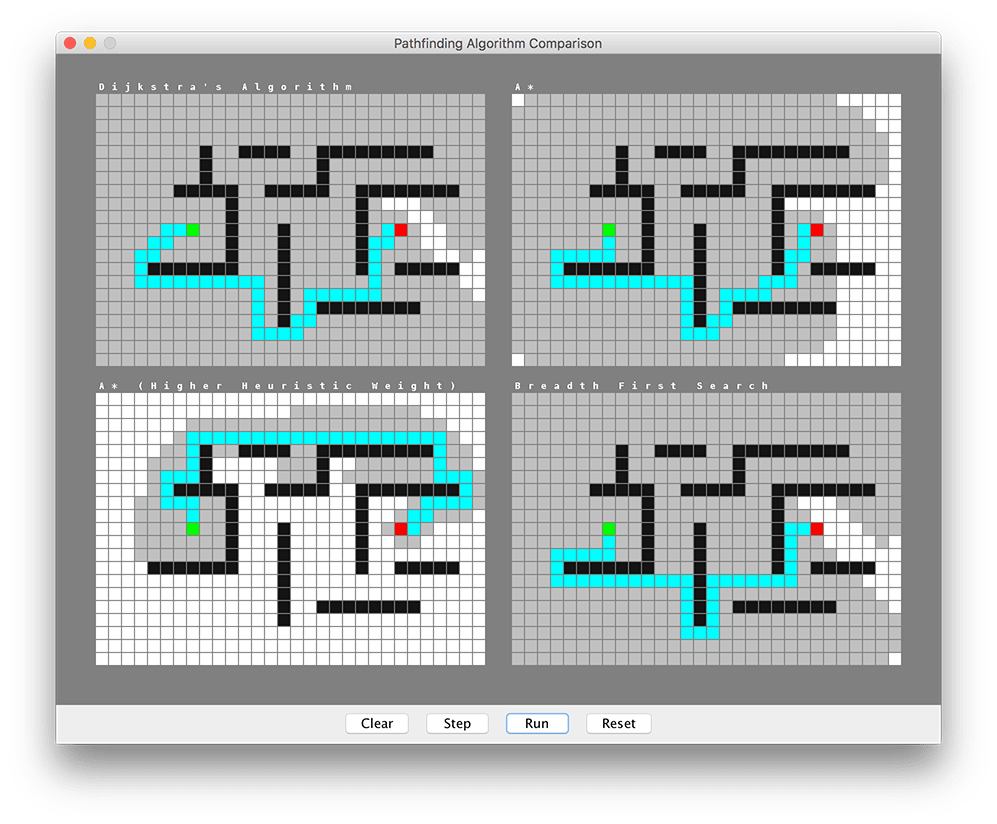
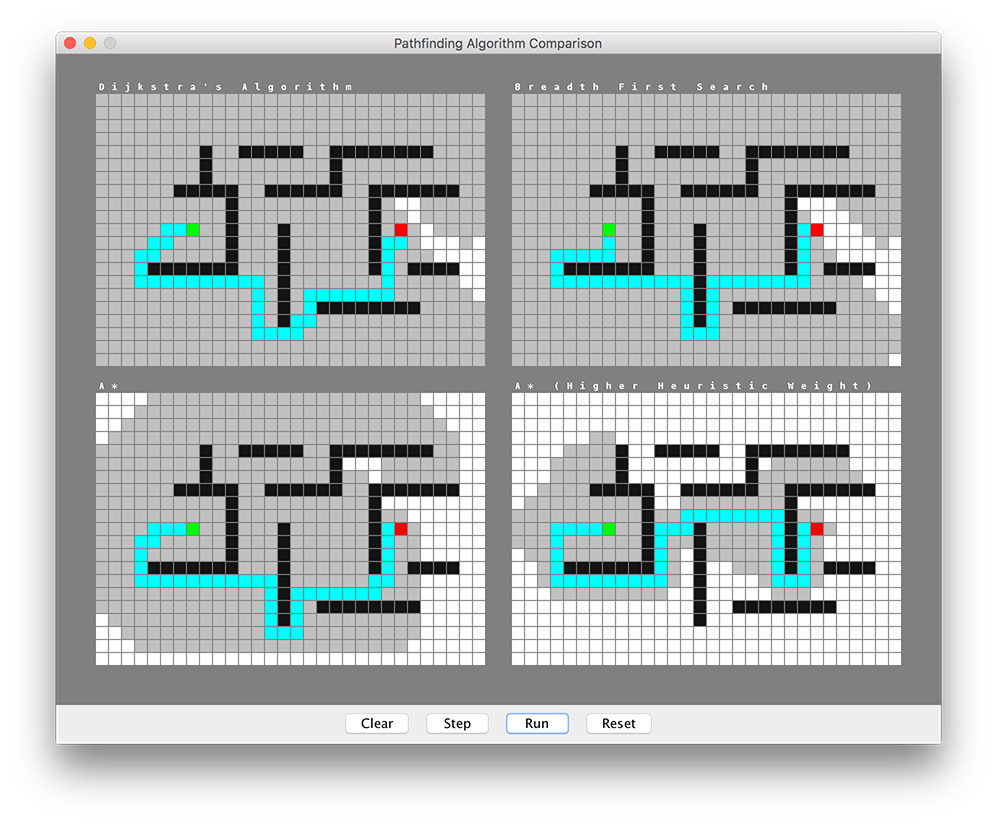
Switched the order of algorithms.

diff --git a/src/Main.java b/src/Main.java
@@ -21,7 +21,7 @@ import java.util.Map;
  * </ul>
  *
  * @author Jake Chiang
- * @version v1.2
+ * @version v1.2.1
  */
 public class Main {
     /**
@@ -124,9 +124,9 @@ public class Main {
 
         // Initialize pathfinders
         pathfinders.put(subgridPositions[0], new Dijkstra());
-        pathfinders.put(subgridPositions[1], new AStar());
-        pathfinders.put(subgridPositions[2], new StrongAStar());
-        pathfinders.put(subgridPositions[3], new BFS());
+        pathfinders.put(subgridPositions[1], new BFS());
+        pathfinders.put(subgridPositions[2], new AStar());
+        pathfinders.put(subgridPositions[3], new StrongAStar());
         initializePathfinders();
 
 
